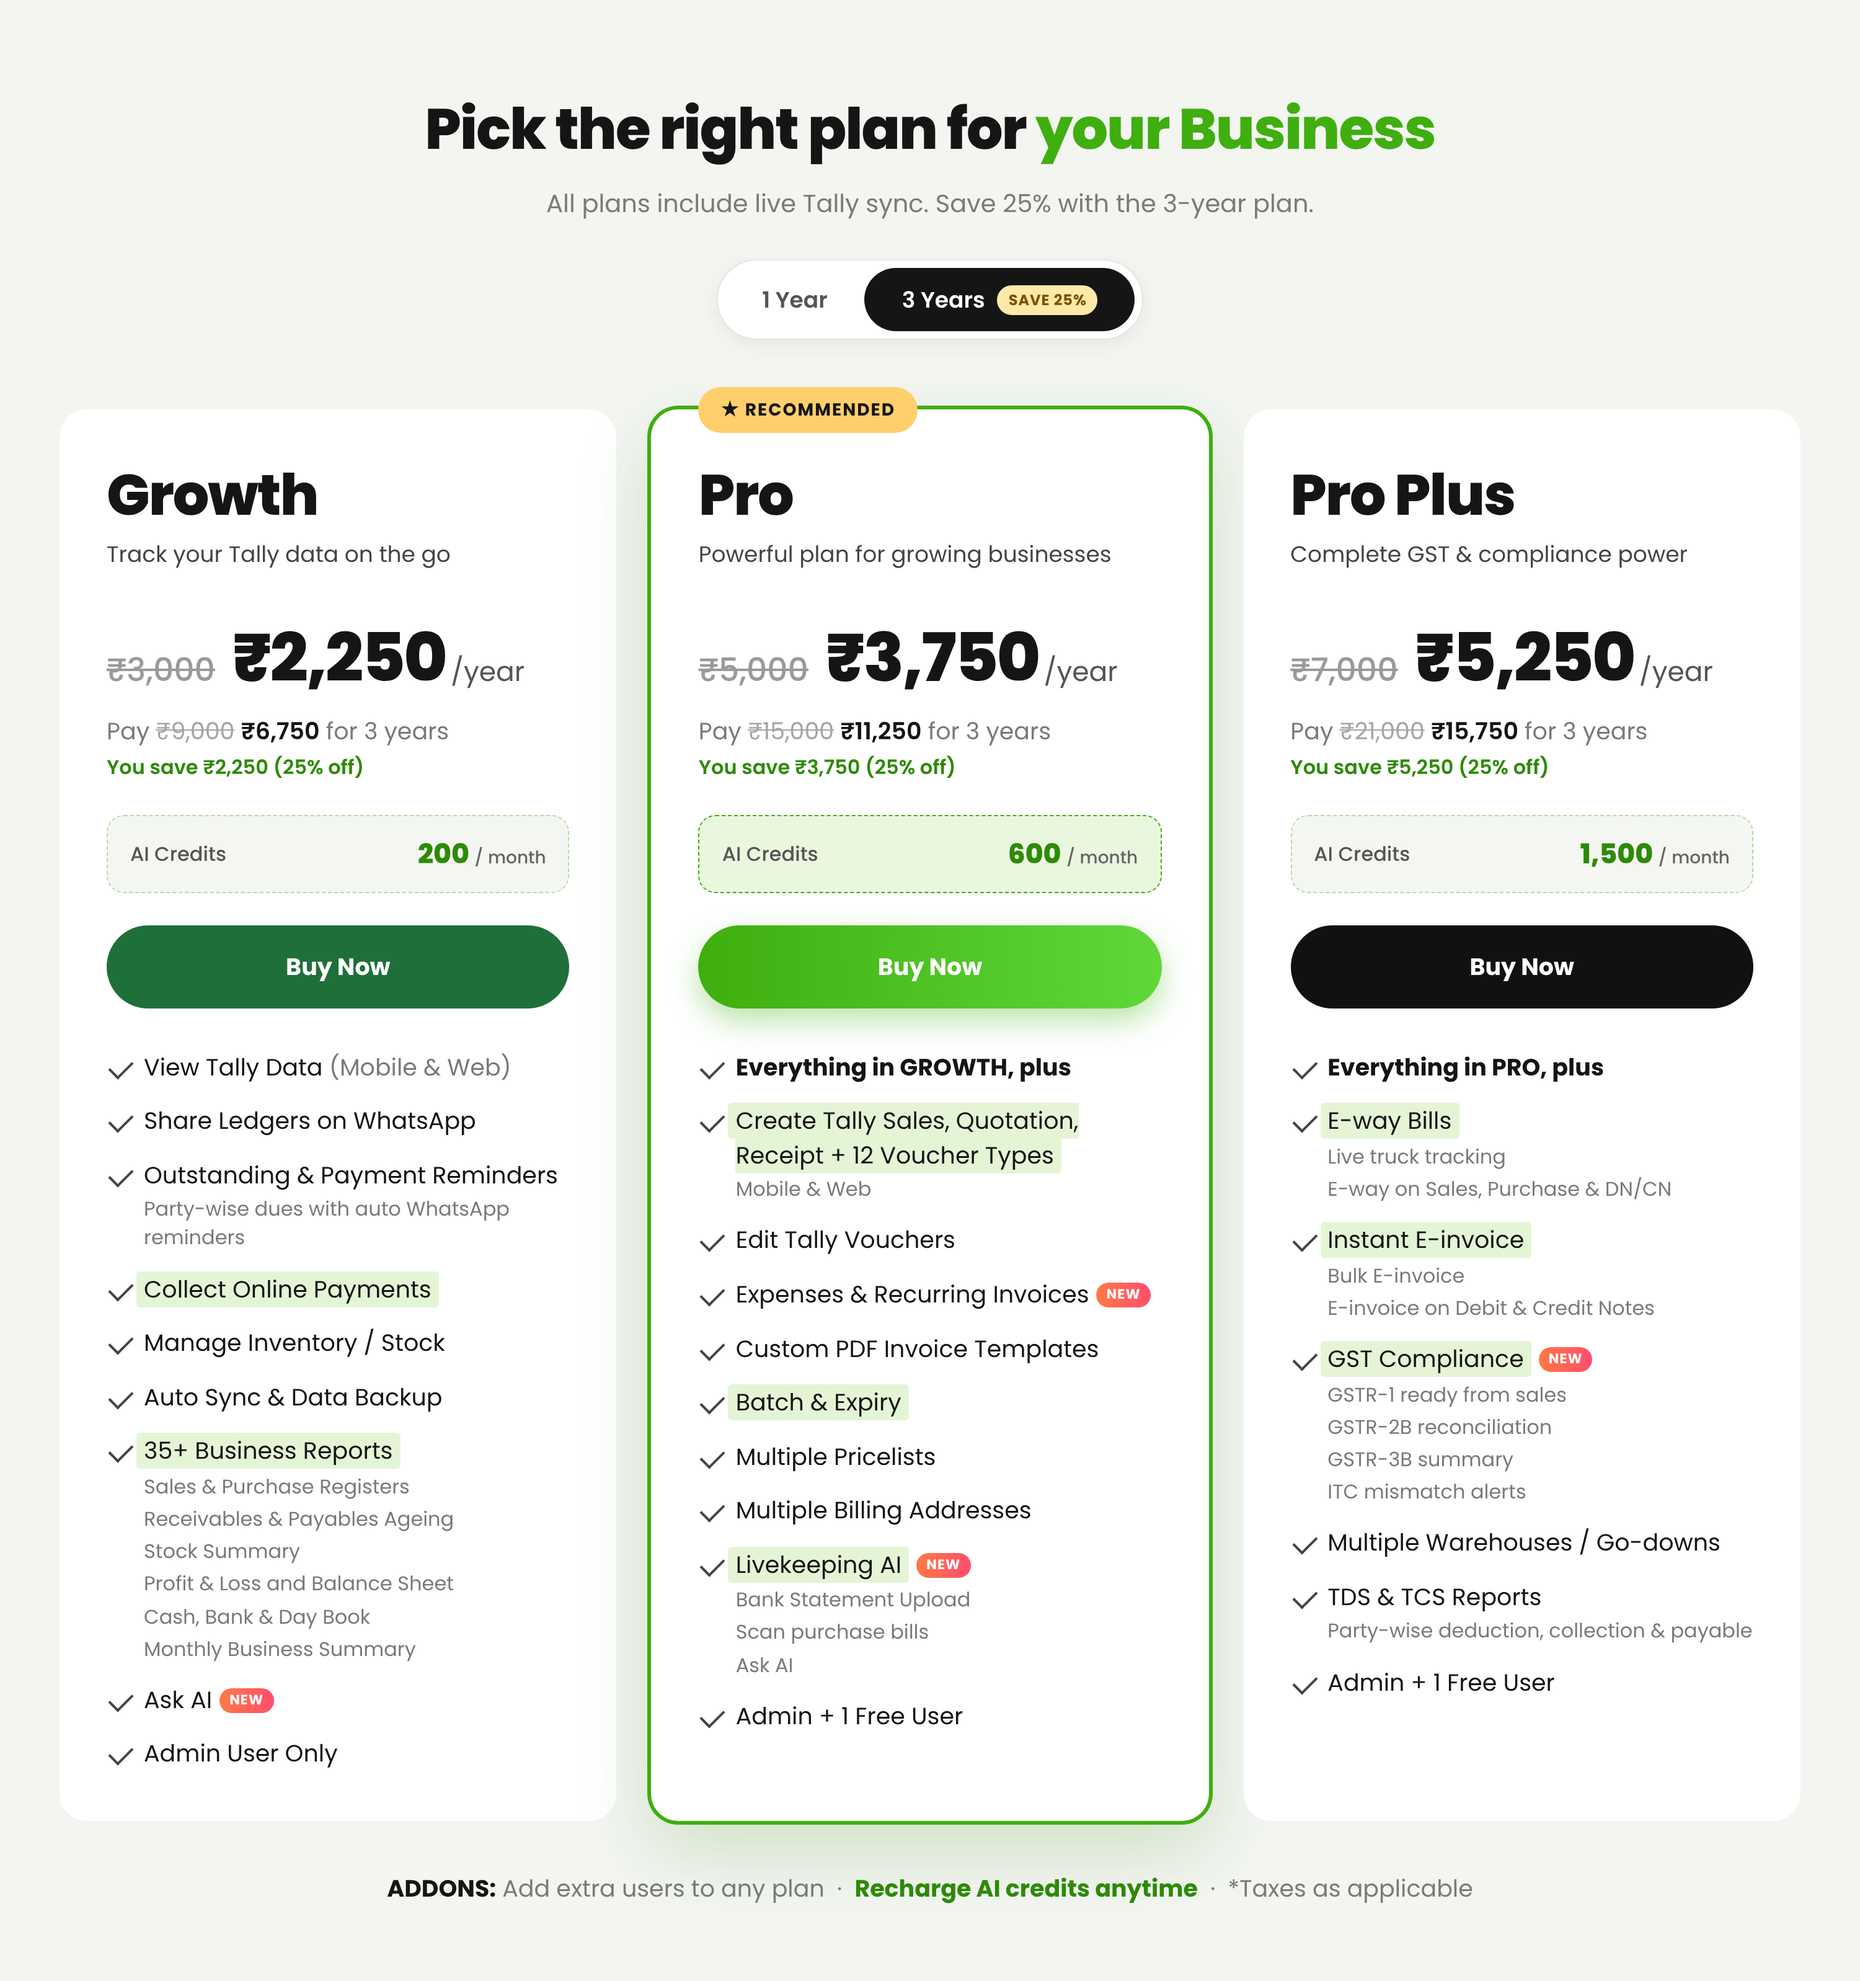
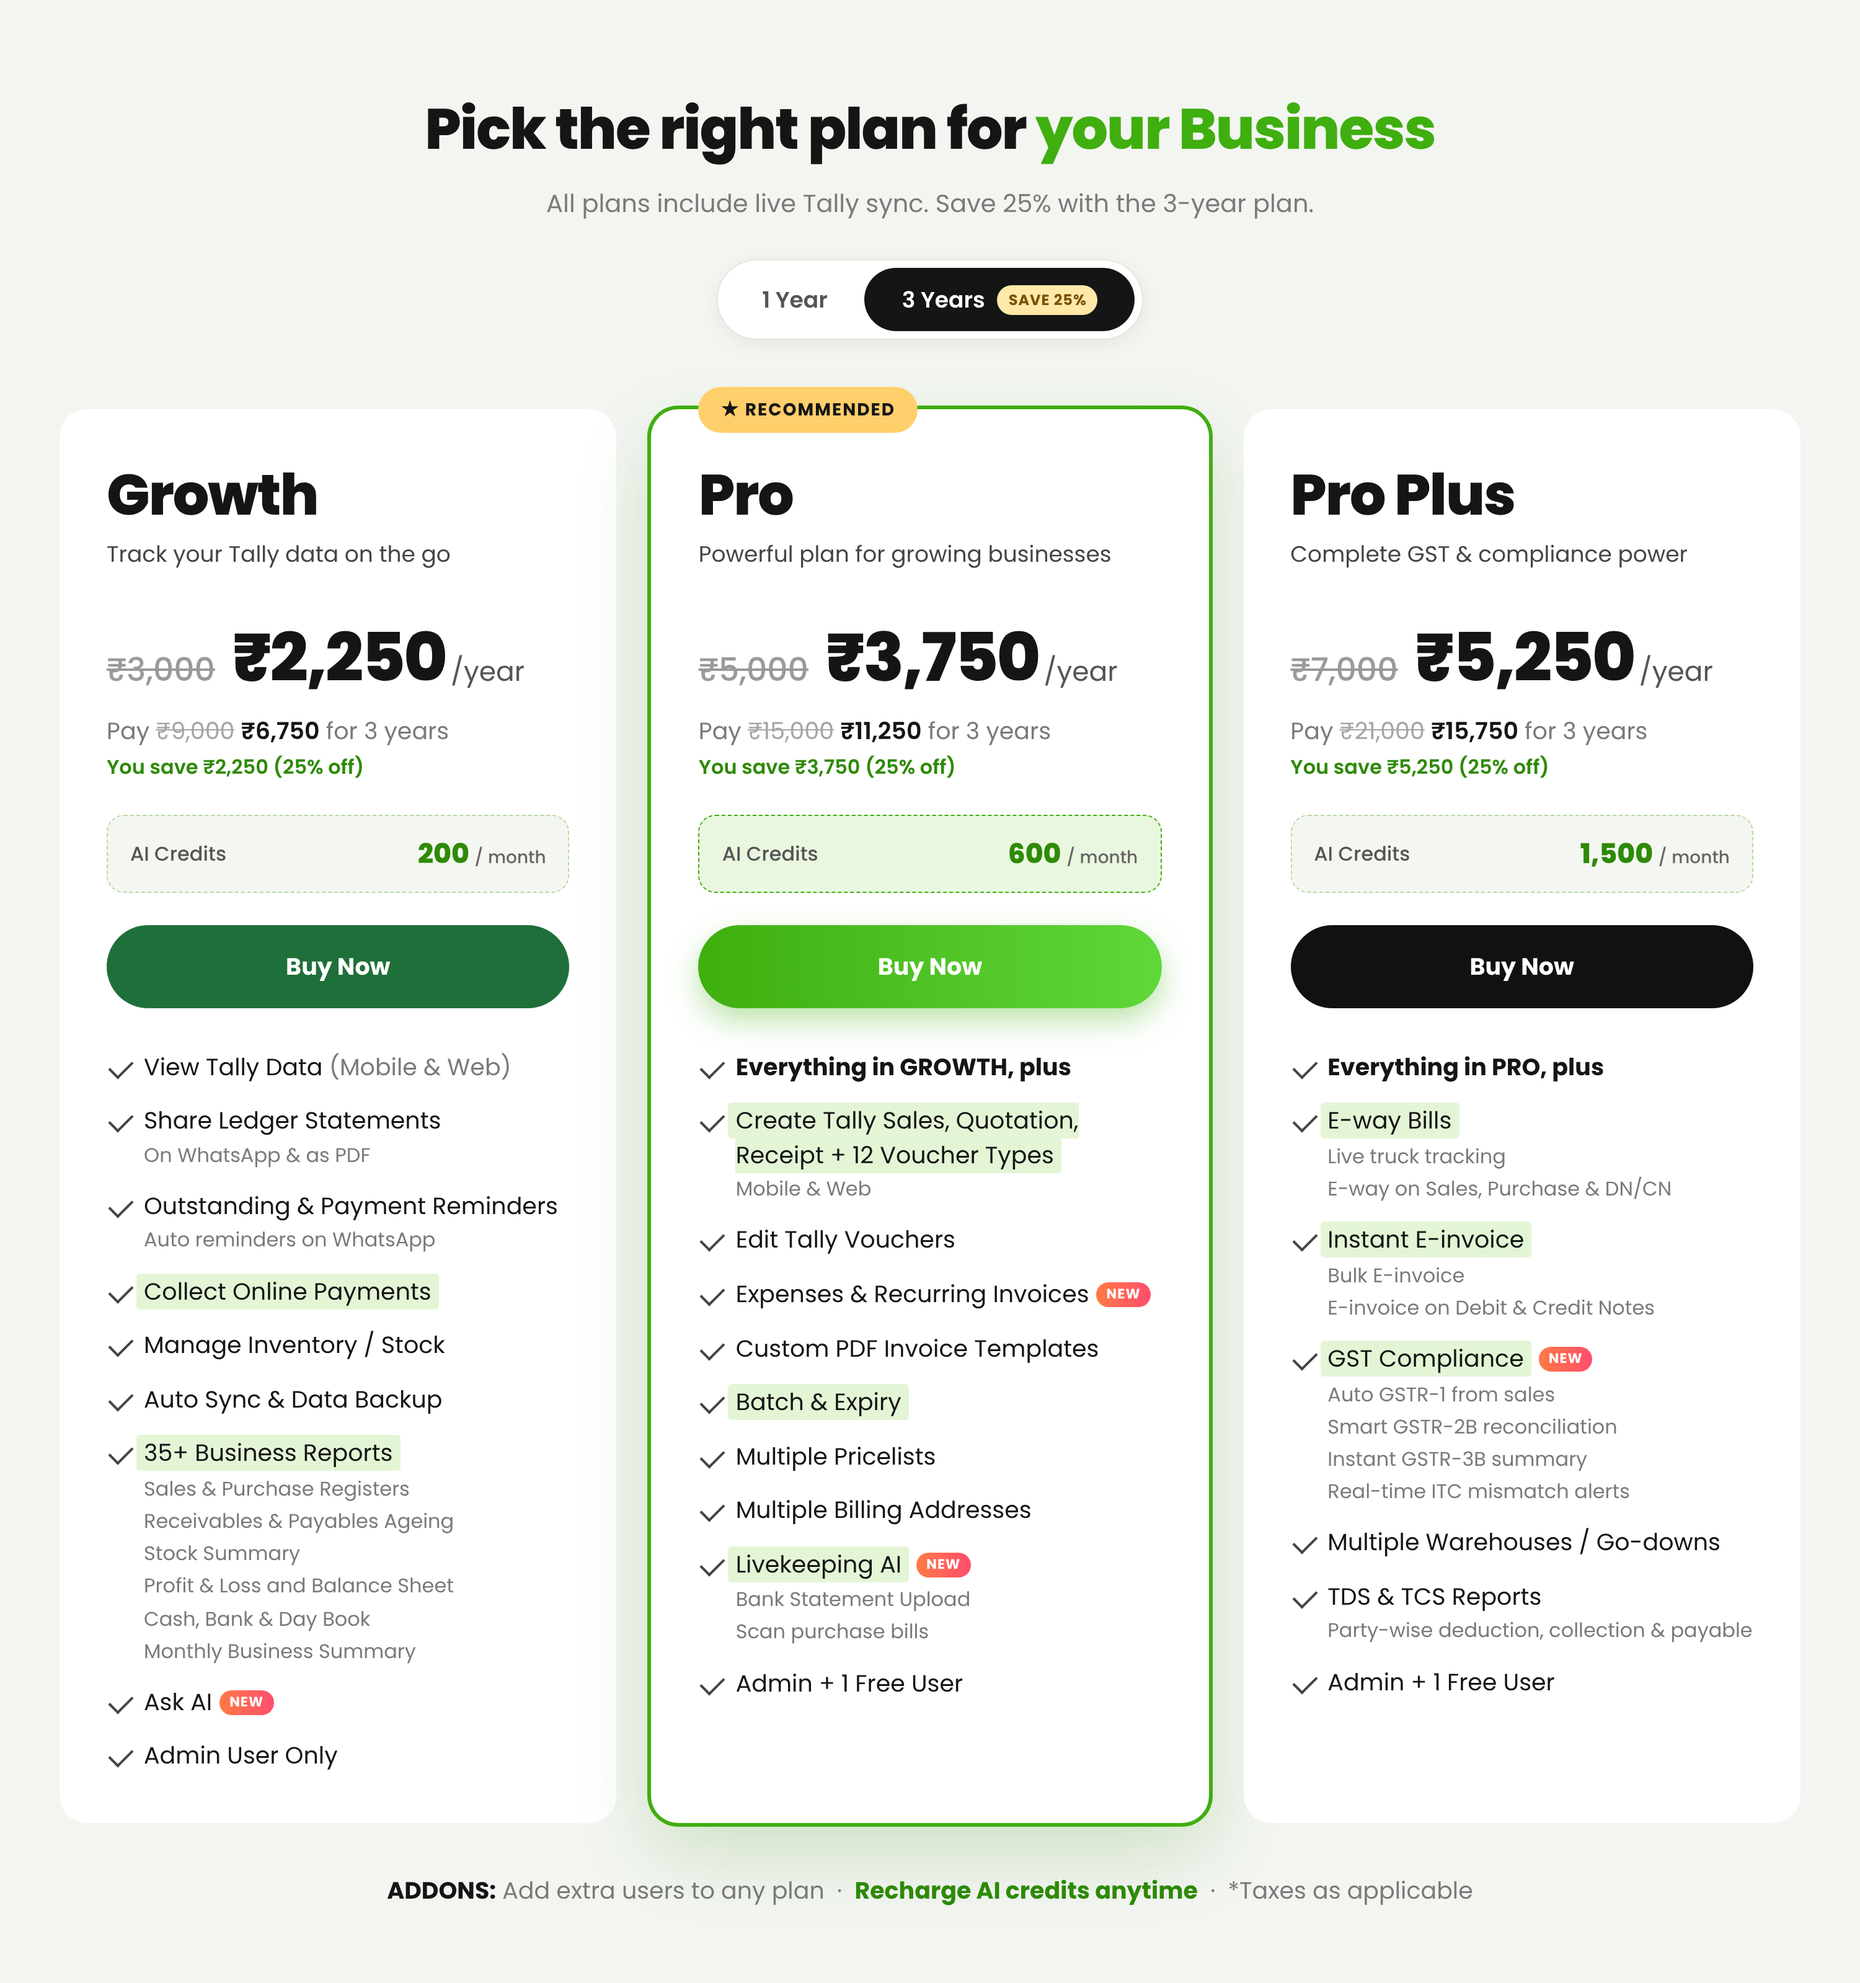
Pricing cards: smarter GST wording, ledger statements, one-line outstanding, drop Ask AI from Pro
Claude-Session: https://claude.ai/code/session_01TUFe6273V25gsCzznixesV

diff --git a/livekeeping-pricing/cards.html b/livekeeping-pricing/cards.html
@@ -147,8 +147,8 @@
       <div class="btn">Buy Now</div>
       <ul>
         <li><div>View Tally Data <span class="sub2">(Mobile &amp; Web)</span></div></li>
-        <li><div>Share Ledgers on WhatsApp</div></li>
-        <li><div>Outstanding &amp; Payment Reminders<span class="note">Party-wise dues with auto WhatsApp reminders</span></div></li>
+        <li><div>Share Ledger Statements<span class="note">On WhatsApp &amp; as PDF</span></div></li>
+        <li><div>Outstanding &amp; Payment Reminders<span class="note">Auto reminders on WhatsApp</span></div></li>
         <li><div><span class="hl">Collect Online Payments</span></div></li>
         <li><div>Manage Inventory / Stock</div></li>
         <li><div>Auto Sync &amp; Data Backup</div></li>
@@ -183,7 +183,7 @@
         <li><div><span class="hl">Batch &amp; Expiry</span></div></li>
         <li><div>Multiple Pricelists</div></li>
         <li><div>Multiple Billing Addresses</div></li>
-        <li><div><span class="hl">Livekeeping AI</span><span class="new">NEW</span><span class="note ln">Bank Statement Upload</span><span class="note ln">Scan purchase bills</span><span class="note ln">Ask AI</span></div></li>
+        <li><div><span class="hl">Livekeeping AI</span><span class="new">NEW</span><span class="note ln">Bank Statement Upload</span><span class="note ln">Scan purchase bills</span></div></li>
         <li><div>Admin + 1 Free User</div></li>
       </ul>
     </div>
@@ -207,7 +207,7 @@
         <li><div><b>Everything in PRO, plus</b></div></li>
         <li><div><span class="hl">E-way Bills</span><span class="note ln">Live truck tracking</span><span class="note ln">E-way on Sales, Purchase &amp; DN/CN</span></div></li>
         <li><div><span class="hl">Instant E-invoice</span><span class="note ln">Bulk E-invoice</span><span class="note ln">E-invoice on Debit &amp; Credit Notes</span></div></li>
-        <li><div><span class="hl">GST Compliance</span><span class="new">NEW</span><span class="note ln">GSTR-1 ready from sales</span><span class="note ln">GSTR-2B reconciliation</span><span class="note ln">GSTR-3B summary</span><span class="note ln">ITC mismatch alerts</span></div></li>
+        <li><div><span class="hl">GST Compliance</span><span class="new">NEW</span><span class="note ln">Auto GSTR-1 from sales</span><span class="note ln">Smart GSTR-2B reconciliation</span><span class="note ln">Instant GSTR-3B summary</span><span class="note ln">Real-time ITC mismatch alerts</span></div></li>
         <li><div>Multiple Warehouses / Go-downs</div></li>
         <li><div>TDS &amp; TCS Reports<span class="note">Party-wise deduction, collection &amp; payable</span></div></li>
         <li><div>Admin + 1 Free User</div></li>
